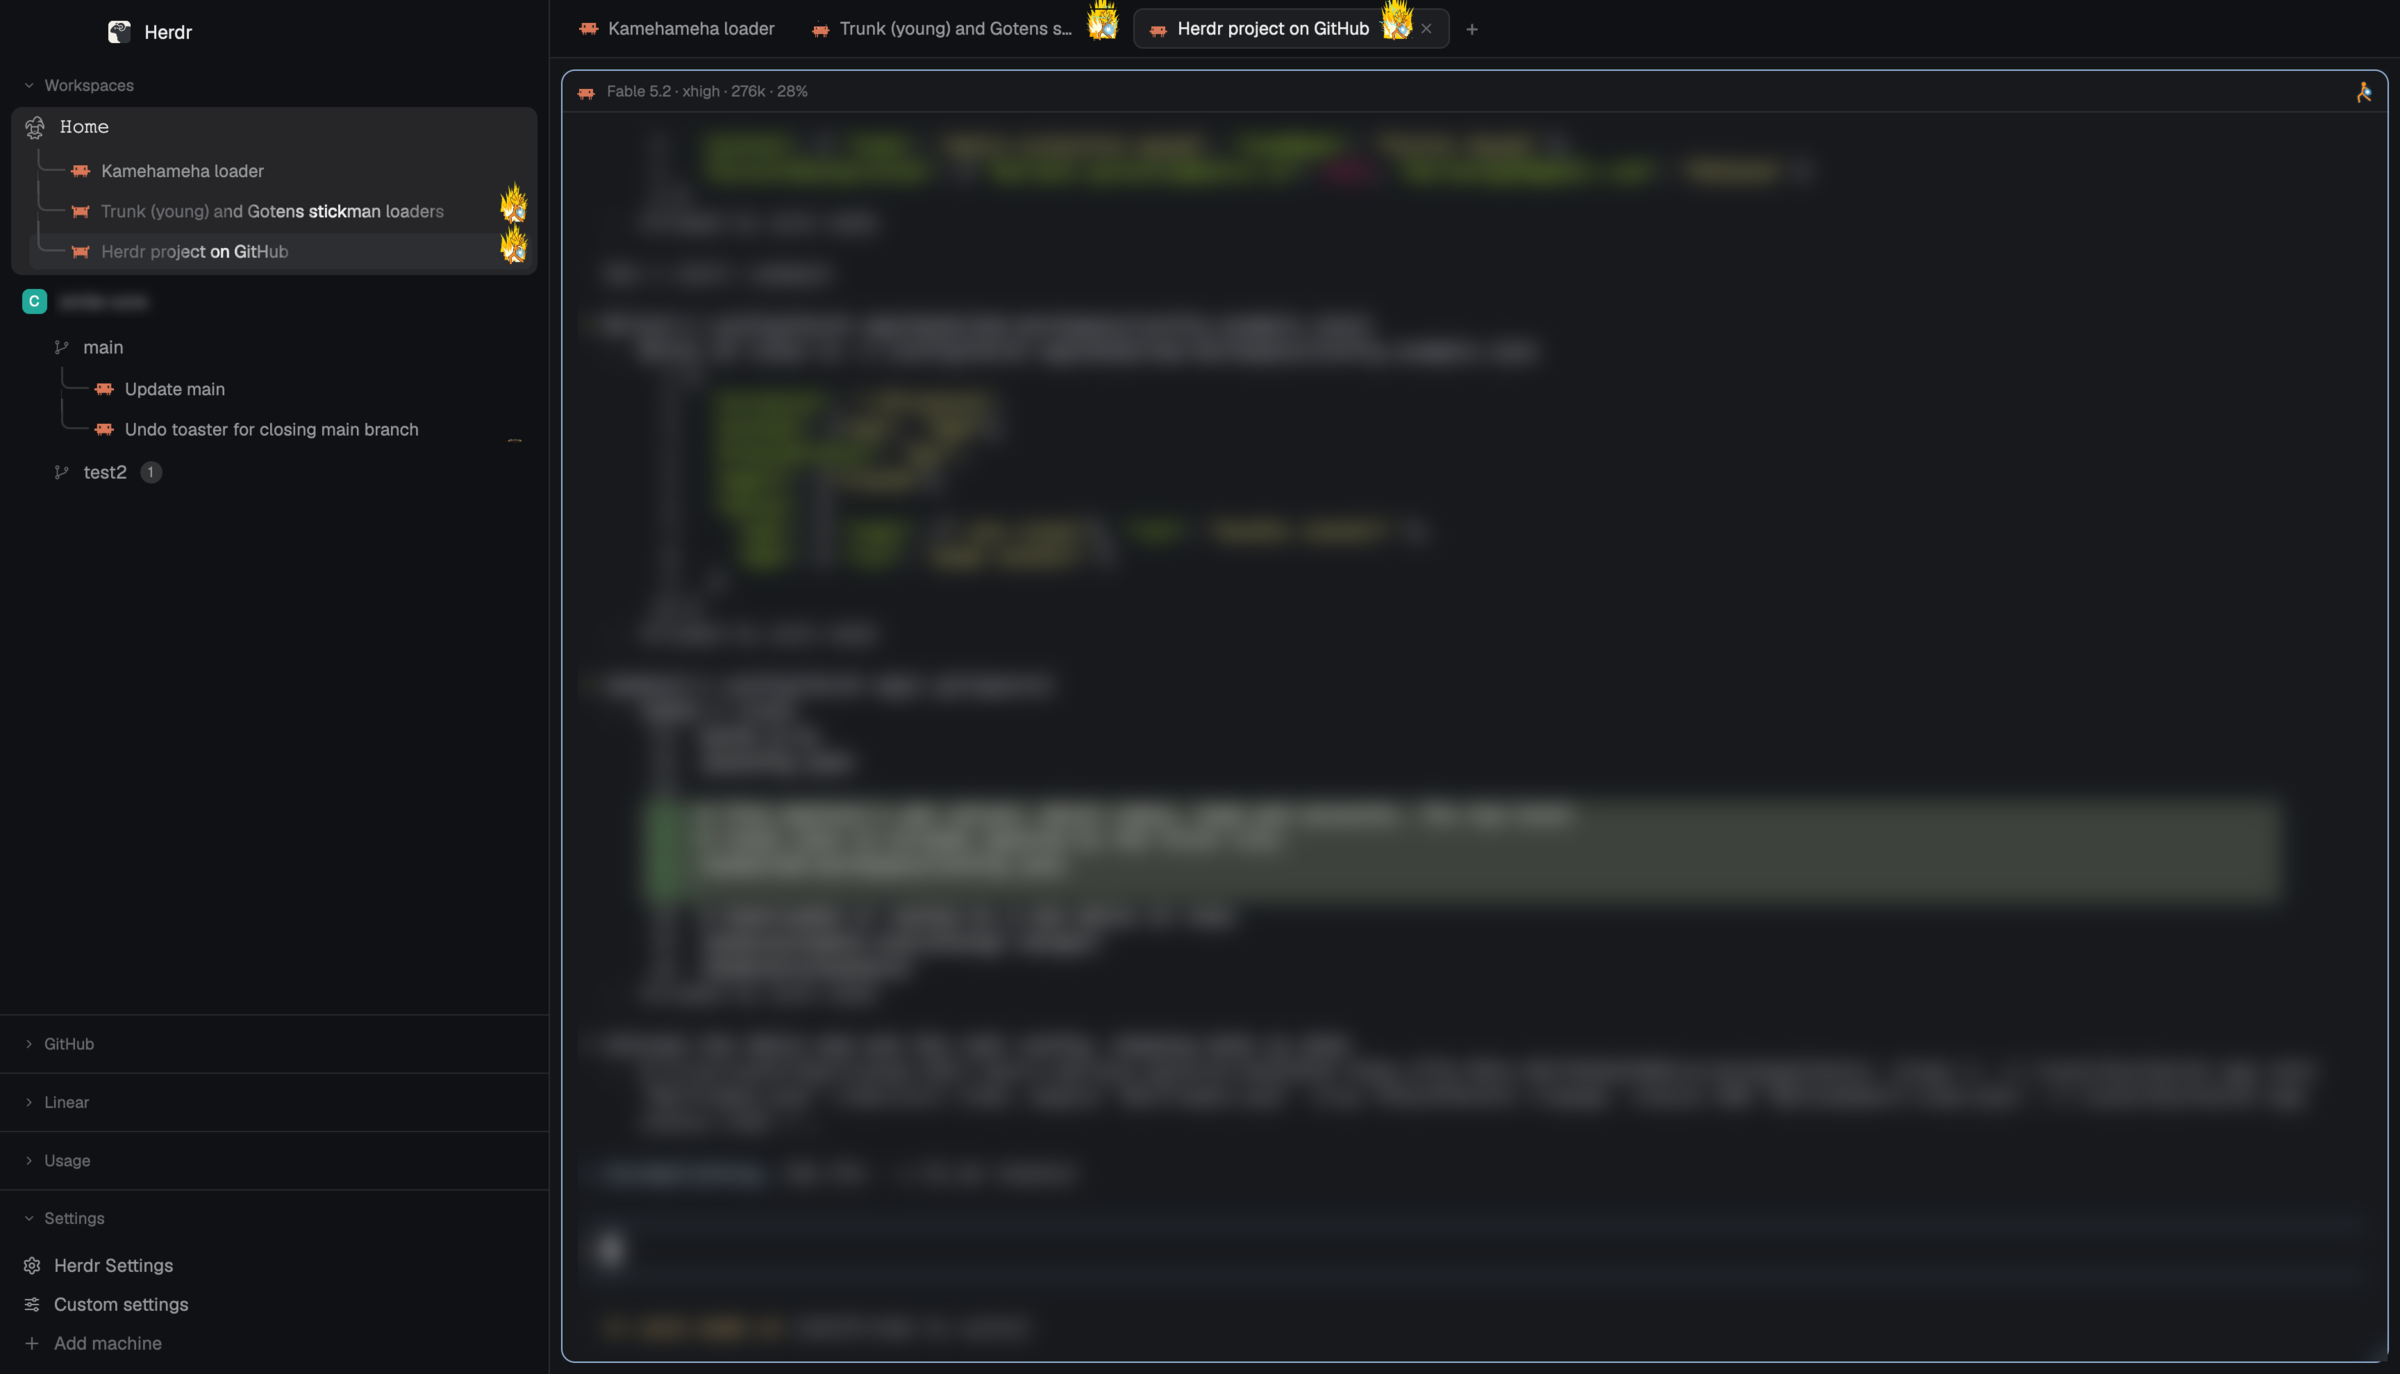
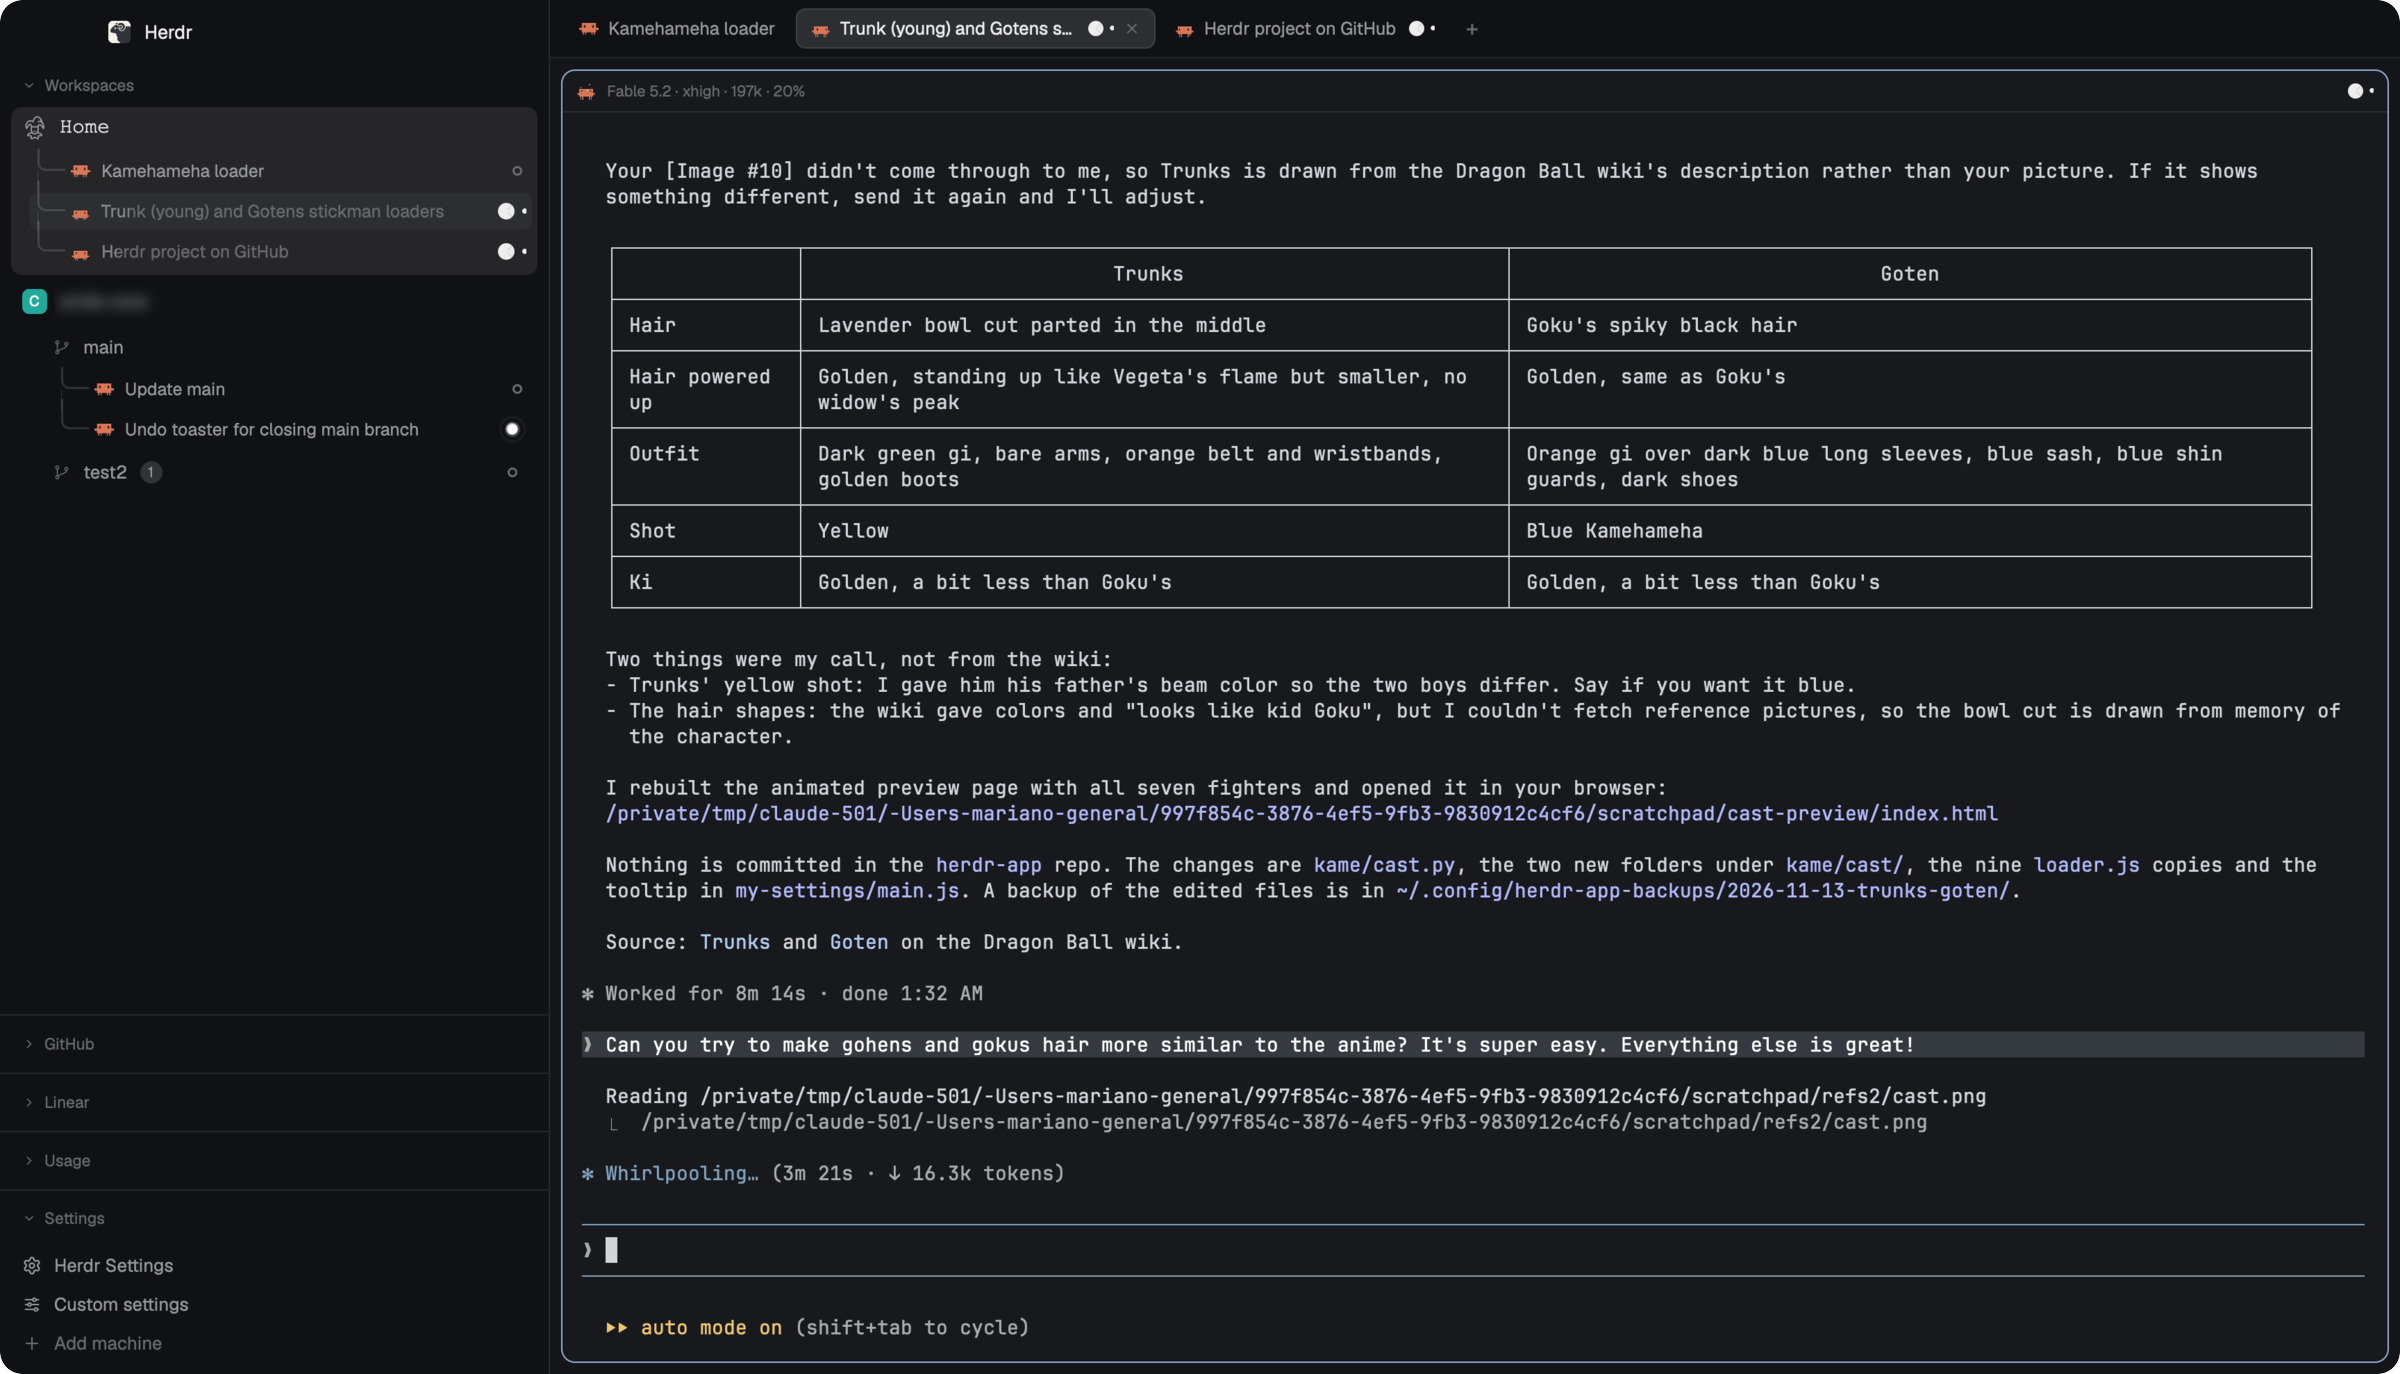
Rework the README and its pictures
- Sharper window, sidebar and pane header screenshots
- Three animated loader tiles
- Highlights first, the mod tables folded away

diff --git a/README.md b/README.md
@@ -1,73 +1,146 @@
-# herdr-work-setup
+<h1 align="center">herdr-work-setup</h1>
 
-My [Herdr](https://herdr.dev) setup: the `mine` layout, the mods I built or
-changed, and my keys. Built on Herdr 0.1.15, on macOS.
+<p align="center">
+  My <a href="https://herdr.dev">Herdr</a> setup for running coding agents side by side:<br>
+  one layout, the mods I built for it, and my keys.
+</p>
 
-![The Herdr window with my layout: sidebar on the left, tabs on top and a framed pane, its text blurred](screenshots/window.png)
+<p align="center">
+  <img src="screenshots/window.png" alt="The Herdr window with this setup: workspaces in the sidebar, tabs on top and an agent at work in a framed pane">
+</p>
 
-This repo *is* Herdr's home folder, `~/.config/herdr-app`. Herdr ships and
-writes most of what lives there, so `.gitignore` tracks only what is mine and
-leaves the rest alone.
+<p align="center"><sub>Herdr 0.1.15 · macOS · the <code>mine</code> layout</sub></p>
 
-## What's in it
+## What's different
+
+### Every agent at a glance
+
+<img src="screenshots/sidebar.png" align="right" width="300" alt="The sidebar: each space with a row per tab, worktrees under their checkout">
+
+The sidebar lists every space with **a row per tab**, so each agent is one
+click away.
+
+- Worktrees sit under their checkout, and sub-agents under their parent.
+- Each row shows its agent's state: working, waiting for me, finished, or
+  finished and already seen.
+- Below the list, sections that fold away: my GitHub pull request inbox, my
+  Linear issues, and how much of the Claude and Codex limits is left.
+- The Usage section also switches the Claude account. Each account keeps its
+  own spaces.
+
+<br clear="right">
+
+### Loaders worth watching
+
+While an agent works, its tab and its sidebar row play a loader. Custom
+settings (`cmd-alt-l`) picks which one, and the mark a finished agent leaves.
+
+<p align="center">
+  <img src="screenshots/loader-stick-fight.webp" width="150" alt="Stick Fight: two stick figures trading punches, kicks and flips">
+  &nbsp;
+  <img src="screenshots/loader-kamehameha.webp" width="150" alt="Kamehameha: a stick figure charging an energy ball">
+  &nbsp;
+  <img src="screenshots/loader-blast-off.webp" width="150" alt="The Kamehameha fighter blasting off and leaving a crater">
+</p>
+
+<p align="center"><sub>Stick Fight · Kamehameha, charging while the agent works · his exit once it is done</sub></p>
+
+Also in the set: Hamster, Pac-Man and Status Face.
+
+### The pane says what the agent is running
+
+<p align="center">
+  <img src="screenshots/pane.png" width="760" alt="The tab bar, and a pane header reading the agent's model, effort and context use">
+</p>
+
+The pane header shows a Claude agent's model, effort and how much of its
+context is used. Tabs name themselves after their conversation, and closing a
+tab or deleting a worktree leaves an undo.
+
+### A worktree in one step
+
+The sidebar's **+** asks for a repo and a name, a branch, a GitHub pull request
+or a Linear ticket, and opens a worktree with Claude already running in it. New
+branches start from a freshly fetched default branch. Each repo can have files
+copied in and a setup command run.
+
+## What's inside
 
 | Path | What it is |
 |---|---|
-| `layouts/mine.json` | My layout, cloned from `main`: sidebar, tabs, framed panes, a side panel |
-| `keys.json` | My shortcuts (`cmd-p` picker, `cmd-alt-l` custom settings, `cmd-alt-p` fold all) |
+| `layouts/mine.json` | The layout, cloned from Herdr's `main`: sidebar, tabs, framed panes, a side panel |
+| `mods/` | The mods below |
+| `keys.json` | My shortcuts: `cmd-p` picker, `cmd-alt-l` custom settings, `cmd-alt-p` fold all |
 | `settings.json` | Zoom and sounds |
 | `programs.json`, `bin/claude-account` | Starts `claude` with the account picked in the Usage section |
-| `mods/` | The mods below |
 
-### Sidebar
+This repo *is* Herdr's home folder, `~/.config/herdr-app`. Herdr ships and
+writes most of what lives there, so `.gitignore` tracks only what is mine.
+
+<details>
+<summary><b>Every mod, by where it shows</b></summary>
+
+<br>
+
+**Sidebar**
 
 | Mod | What it does |
 |---|---|
-| `workspaces` | Spaces with colored avatars, worktrees under their checkout, a row per tab, sub-agents under their parent. The animated loaders live here: Hamster, Pac-Man, Stick Fight, Kamehameha, Status Face |
+| `workspaces` | The list of spaces, tabs and agents, and the loaders |
 | `github` | My pull request inbox, asked of `gh` every two minutes |
 | `linear` | The Linear issues assigned to me, grouped by state |
 | `usage` | Claude and Codex rate limits, and the Claude account switcher |
 | `my-workspace-chrome` | The sidebar's header and footer, with a "Custom settings" row |
 
-<img src="screenshots/sidebar.png" alt="The sidebar: workspaces with a row per tab, then GitHub, Linear, Usage and Settings" width="340">
-
-Two of the loaders a working agent can show, Stick Fight and Kamehameha:
-
-<img src="mods/workspaces/stickfight/stickfight.webp" alt="The Stick Fight loader" width="96"> <img src="mods/workspaces/kame/kame-charge6.webp" alt="The Kamehameha loader" width="96">
-
-### Tabs, panes and panel
+**Tabs, panes and side panel**
 
 | Mod | What it does |
 |---|---|
-| `my-tabs` | The tab bar: undo for a closed tab or a deleted worktree, tab names |
+| `my-tabs` | The tab bar: tab names, undo for a closed tab or a deleted worktree |
+| `my-pane` | The pane header: a Claude agent's model, effort and context use |
 | `blank-tab` | What a space shows once its last tab closes, instead of closing the space |
-| `my-pane` | Pane header: a Claude agent's model, effort and context use |
 | `prs` | Open pull requests that involve me, in the side panel |
 | `automate-everything` | Scheduled scripts and agents, in the side panel |
 
-![The tab bar with a loader on each working tab, and a pane header showing the agent's model, effort and context use](screenshots/tabs.png)
-
-### Dialogs and menus
+**Dialogs and menus**
 
 | Mod | What it does |
 |---|---|
-| `new-workspace` | New worktree from a name, a branch, a PR or a Linear ticket, with Claude running in it. Settings in `config.json`, which stays on this machine |
-| `my-settings` | Custom settings: loaders, finished and seen dots, plain spaces, badges, sections |
-| `my-picker` | Go to a tab (`cmd-p`) |
+| `new-workspace` | The new worktree dialog. Its `config.json` stays on this machine |
+| `my-settings` | Custom settings: loaders, finished and seen marks, plain spaces, badges, sections |
+| `my-picker` | Go to a tab (`cmd-p`), the ones that need me first |
 | `my-menu`, `my-new-menu`, `my-confirm`, `my-worktree`, `my-toast` | My copies of Herdr's context menu, + menu, confirm dialog, worktree dialog and notifications |
 | `tabs-edited` | An early edit of Herdr's `tabs` that Herdr set aside. No layout uses it |
 
-## What it needs
+</details>
 
-- `gh`, signed in: `github` and `prs`.
-- A Linear API key in the macOS Keychain as `herdr-linear-api-key`: `linear`
+## Set it up on another Mac
+
+Install Herdr and open it once, so it writes its own files. Then:
+
+```sh
+cd ~/.config/herdr-app
+git init -b main
+git remote add origin git@github.com:marianoggf/herdr-work-setup.git
+git fetch origin
+git reset --hard origin/main   # replaces the keys.json and settings.json Herdr just wrote
+herdr-app do layout.switch '{"name":"mine"}'
+```
+
+It needs:
+
+- `gh`, signed in, for `github` and `prs`.
+- A Linear API key in the macOS Keychain as `herdr-linear-api-key`, for `linear`
   and `new-workspace`.
-- `python3`: `my-pane` and `workspaces` read a Claude agent's transcript with it.
+- `python3`, which `my-pane` and `workspaces` use to read a Claude agent's
+  transcript.
 - Orca's Claude profiles, for more than one account in `usage`.
-- My home folder is written into `programs.json` and `mods/usage/workspaces.js`.
-  Change it there on a machine with another user.
 
-## Local values
+My home folder is written into `programs.json` and `mods/usage/workspaces.js`:
+change it there for another user. `automate-everything` downloads its program
+the first time its panel opens.
+
+### Local values
 
 What names my repos, team and accounts stays out of the repo, in two untracked
 files. Without them the mods fall back to plain defaults.
@@ -82,33 +155,18 @@ files. Without them the mods fall back to plain defaults.
 }
 ```
 
-- `repoPrefix`: the word most repo names start with. Avatars and PR rows leave it out.
+- `repoPrefix`: the word most repo names start with. Avatars and pull request
+  rows leave it out.
 - `github`: the team whose pull requests get their own section in `github`.
-- `accountBackgrounds`: the window background for each Claude account in `usage`.
-  `null` keeps the theme's own.
+- `accountBackgrounds`: the window background for each Claude account in
+  `usage`. `null` keeps the theme's own.
 
 `mods/new-workspace/config.json`: the projects folder, the pinned repos and what
 to set up in each new worktree. Start from `config.example.json` next to it.
 
-## Putting it on another Mac
-
-Install Herdr and open it once, so it writes its own files. Then:
-
-```sh
-cd ~/.config/herdr-app
-git init -b main
-git remote add origin git@github.com:marianoggf/herdr-work-setup.git
-git fetch origin
-git reset --hard origin/main   # replaces the keys.json and settings.json Herdr just wrote
-herdr-app do layout.switch '{"name":"mine"}'
-```
-
-Then write the two files from Local values. `automate-everything` downloads its
-program the first time its panel opens.
-
-Not tracked, so they come back as defaults and get picked again: the layout's
-clicks (`layouts/.state/`: sizes, what's hidden) and the picks made in Custom
-settings (`shared.json`: loader, dots, repo colors).
+Also not tracked, so they come back as defaults: the layout's clicks
+(`layouts/.state/`: sizes, what's hidden) and the picks made in Custom settings
+(`shared.json`: loader, marks, repo colors).
 
 ## Saving a change
 
@@ -124,15 +182,13 @@ new mod, add it to the list in `.gitignore`.
 
 ## Credits
 
-`automate-everything` is [lucasprag's mod](https://github.com/lucasprag/herdr-automate-everything)
-at 0.1.3 (MIT), with one change: its running rows use my loader. `prs` is
-adapted from his mod too. The `my-*` mods and `workspaces` started as clones of
-the mods Herdr ships.
+- `automate-everything` is [lucasprag's mod](https://github.com/lucasprag/herdr-automate-everything)
+  at 0.1.3 (MIT), with one change: its running rows use my loader. `prs` is
+  adapted from his mod too.
+- Tab naming is adapted from [longwave/herdr-auto-tabs](https://github.com/longwave/herdr-auto-tabs).
+- The `my-*` mods and `workspaces` started as clones of the mods Herdr ships.
 
-## Before making this public
-
-This repo is private on purpose. To share any of it, first take out:
-
-- The Status Face loader (`mods/workspaces/hud/`): it is built from Doom's
-  status-bar face, which isn't mine to publish. The ChatGPT knot
-  (`mods/workspaces/chatgpt/`) is OpenAI's logo.
+This repo is private for now, because some of its art isn't mine to publish:
+Status Face is built from Doom's status-bar face (`mods/workspaces/hud/`), the
+mascot animations show Claude Code's mascot (`mods/workspaces/mascot/`), and
+`mods/workspaces/chatgpt/` is OpenAI's logo.
